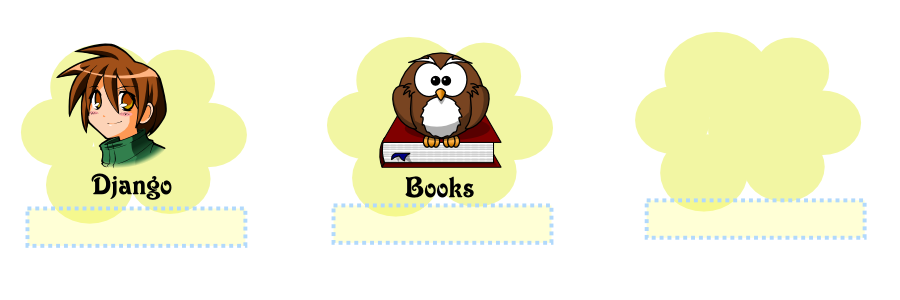
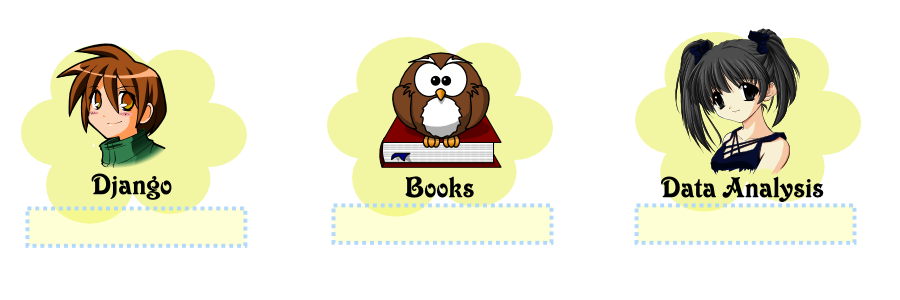
update

Changed region(s): [[0.6844, 0.09, 0.9644, 0.84]]

diff --git a/templates/homepage.html b/templates/homepage.html
@@ -191,7 +191,7 @@
             <a href="/student/work/list/5" style="color: #000000; background: rgba(0, 0, 0, 0);text-decoration: none">x 班次共 x 個作業</a>
           </div>
           <div style="left:646px">
-            <a href="/student/work/list/6" style="color: #000000; background: rgba(0, 0, 0, 0);text-decoration: none"></a>
+            <a href="/student/work/list/6" style="color: #000000; background: rgba(0, 0, 0, 0);text-decoration: none">x 班次共 x 個作業</a>
           </div>
           
         </div>
